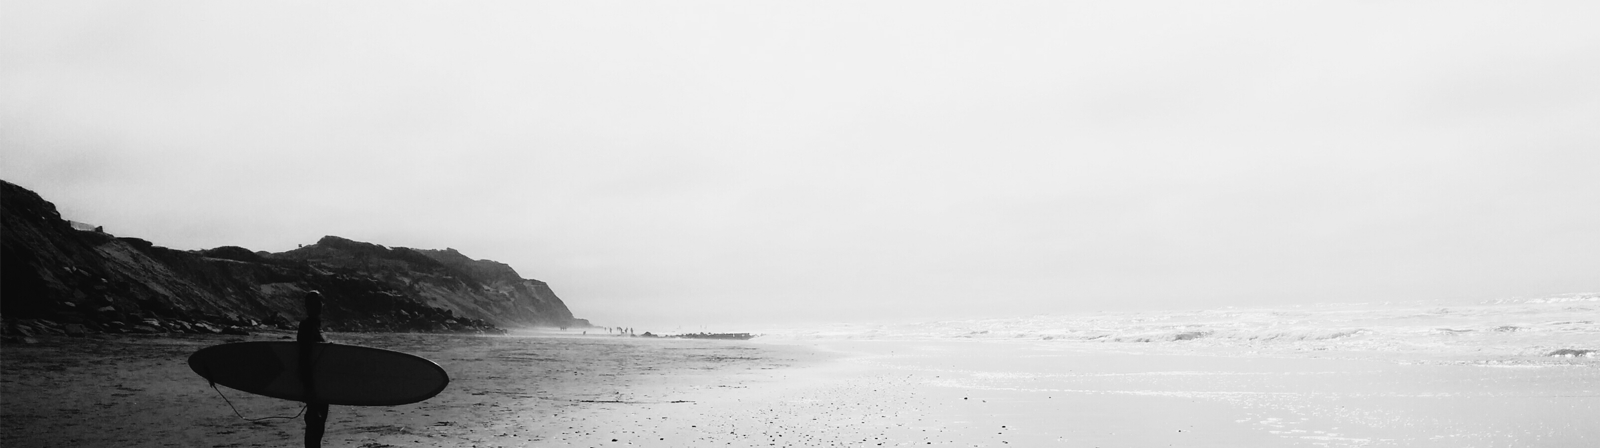
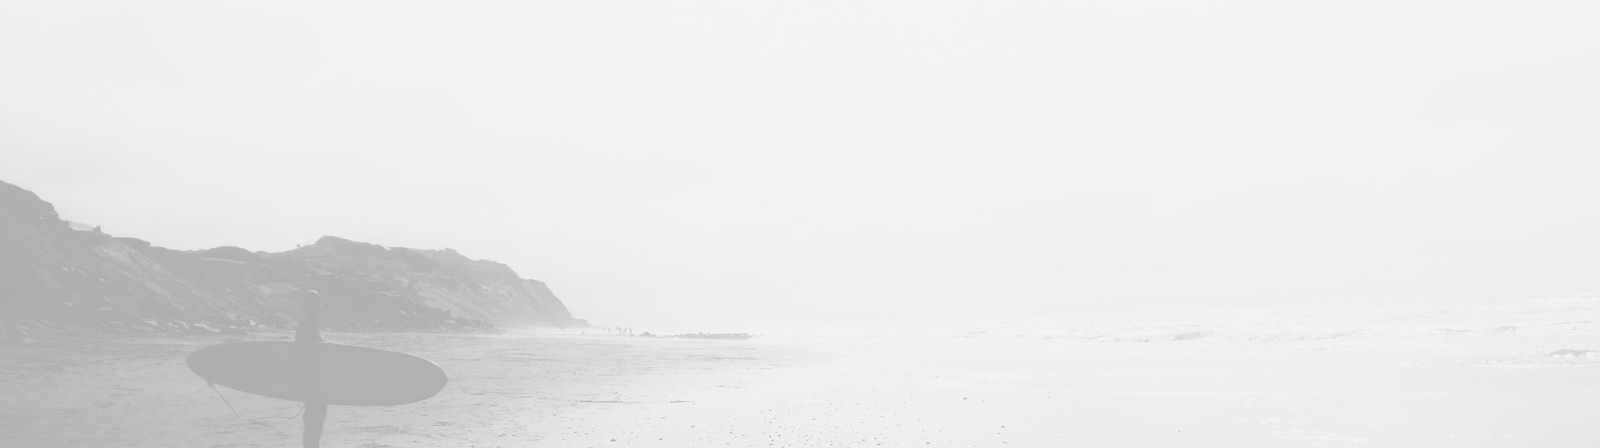
Добавилстраницу регистрации, поправил фон в footer

diff --git a/registration.html b/registration.html
@@ -16,8 +16,9 @@
 <body>
     <header class="header">
         <div class="container header__container">
-            <div>
-                <img class="header__logo" src="./img/logo.svg" alt="logo" width="44" height="38">
+            <div><a href="index.html">
+                <img class="header__logo" src="./img/logo.svg" alt="logo" width="44" height="38"></a>
+
                 <img src="./img/loupe.svg" alt="loupe" width="26" height="28">
             </div>
             <div class="header__list-navigation">
@@ -86,6 +87,7 @@ registration
         <section class="bottom">
             <ul class="bottom__list">
                 <li class="bottom__item">
+
                     <img src="./img/car.png" alt="Free Delivery" class="bottom__img" />
                     <h2 class="bottom__title">Free Delivery</h2>
                     <p class="bottom__text">Worldwide delivery on all. Authorit tively morph next-generation innov tion

diff --git a/index.html b/index.html
@@ -17,7 +17,8 @@
     <header class="header">
         <div class="container header__container">
             <div>
-                <img class="header__logo" src="./img/logo.svg" alt="logo" width="44" height="38">
+                <a href="index.html">
+                <img class="header__logo" src="./img/logo.svg" alt="logo" width="44" height="38"></a>
                 <img src="./img/loupe.svg" alt="loupe" width="26" height="28">
             </div>
             <div class="header__list-navigation">

diff --git a/css/style.css b/css/style.css
@@ -105,9 +105,10 @@ body {
 
 .header__button:hover+.header__navigation {
     display: block;
-    
+
 }
-.header__button:hover{
+
+.header__button:hover {
     fill: var(--dark-pink-color);
 }
 
@@ -369,9 +370,11 @@ body {
     min-width: 360px;
 }
 
+
 footer {
-    background: rgba(244, 244, 244, 0.7);
-    background-image: url(/img/footer-bg.jpg);
+    background-image: url(../img/footer-bg.jpg);
+    background-repeat: no-repeat;
+    background-size: auto;
 }
 
 .footer__section {
